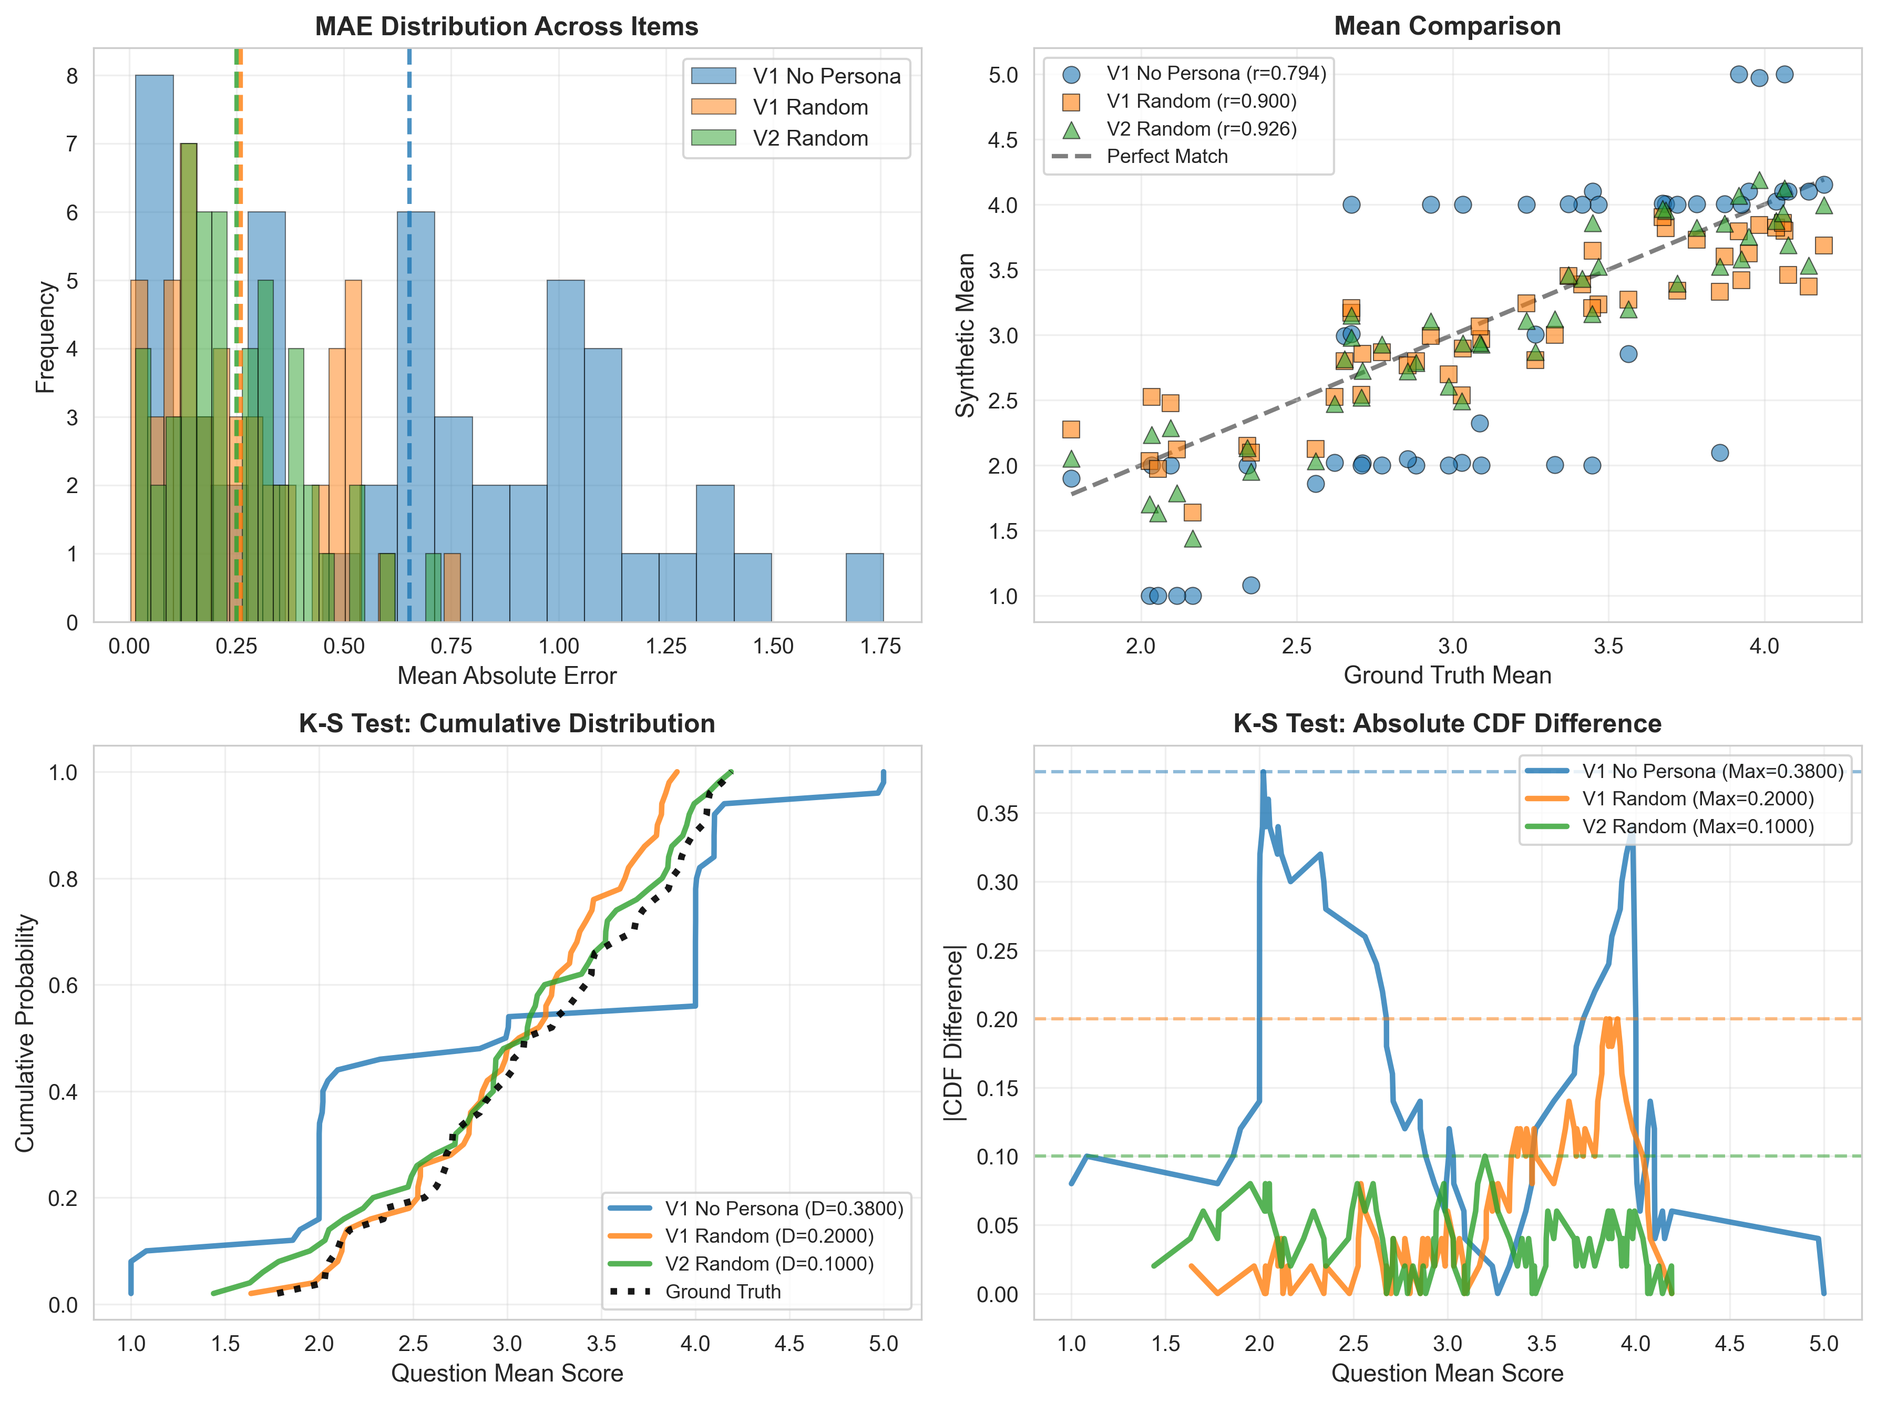
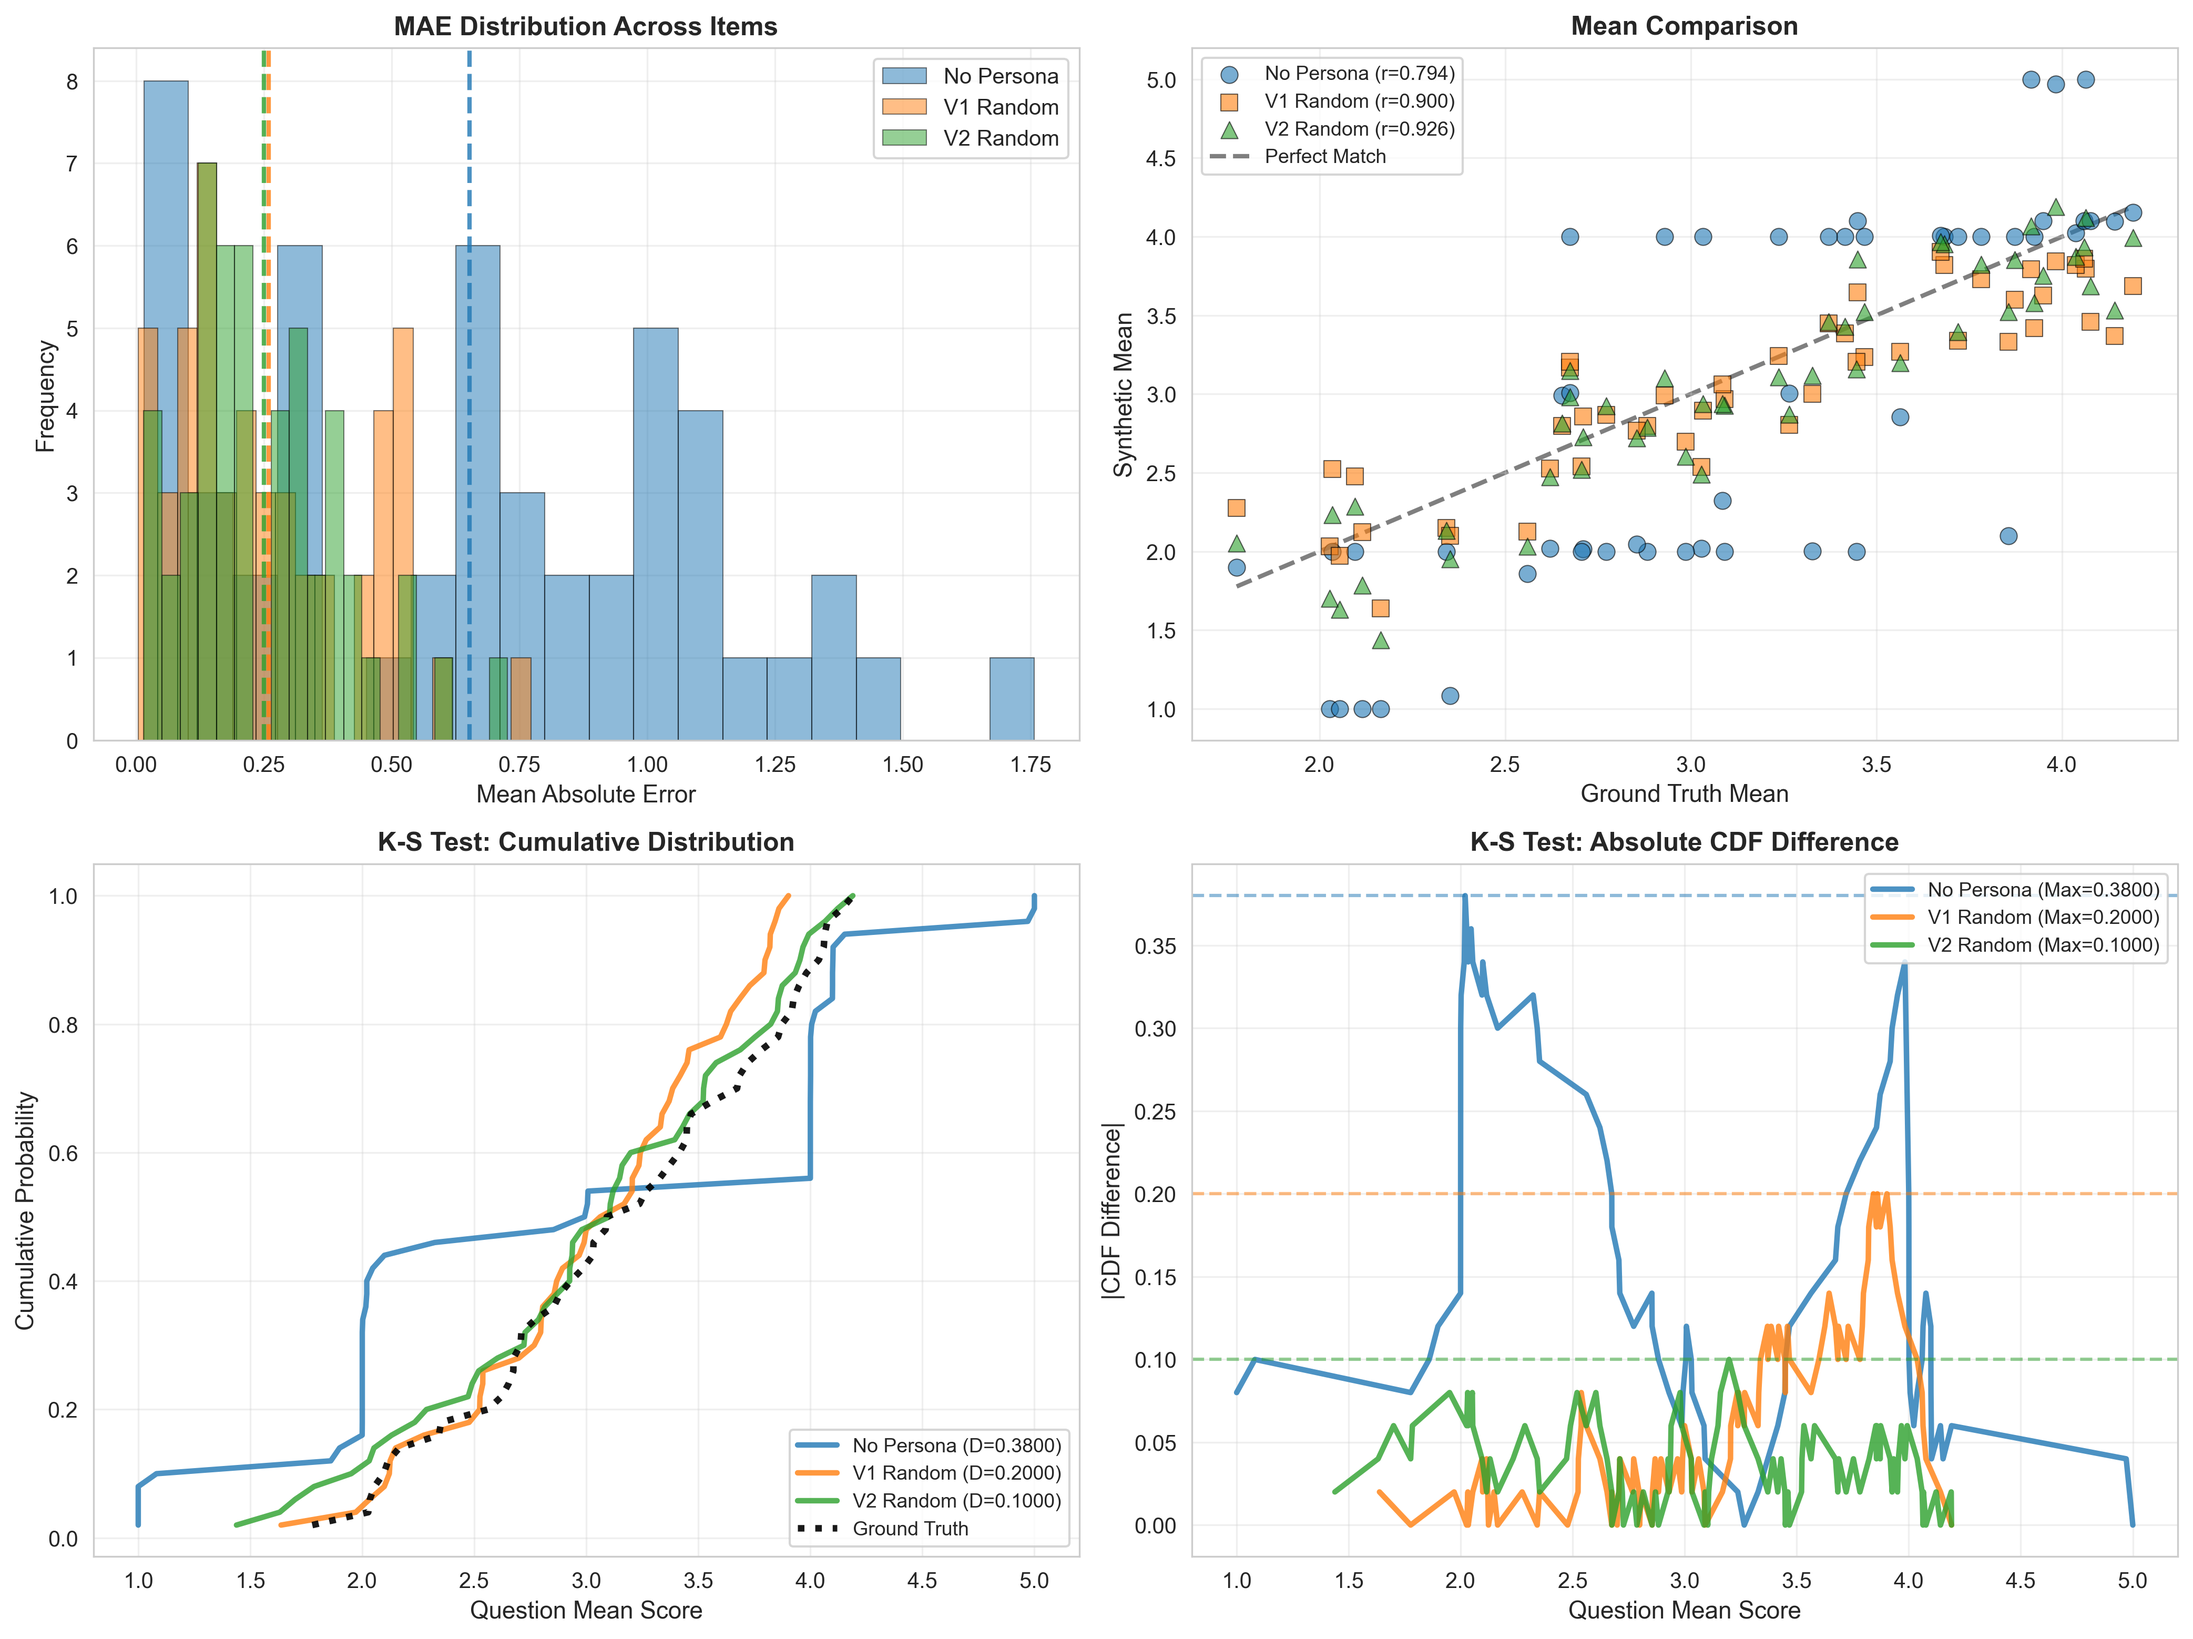
update platform prompt for better differentiation across different platform

diff --git a/SiliconSampling/personas/test_prompt.py b/SiliconSampling/personas/test_prompt.py
@@ -1,0 +1,109 @@
+"""
+Test Prompt Generation
+
+This script outputs the actual prompt that will be sent to the LLM for persona generation.
+Useful for debugging and understanding what the model sees.
+
+Usage:
+    python test_prompt.py --strategy random
+    python test_prompt.py --strategy ipip --row-index 5
+    python test_prompt.py --strategy wpp --output prompt.txt
+"""
+
+import argparse
+from pathlib import Path
+
+from utils import (
+    load_prompt_template,
+    load_ocean_data,
+    format_demographics,
+    format_ocean_scores,
+    create_persona_prompt
+)
+
+
+def main(strategy='random', row_index=0, output_file=None):
+    """
+    Generate and display/save the prompt for a sample persona
+    
+    Args:
+        strategy: Which OCEAN assignment strategy (random/ipip/wpp)
+        row_index: Which row from the data to use (default: 0)
+        output_file: If provided, save to this file instead of printing
+    """
+    
+    print("\n" + "="*80)
+    print("PROMPT GENERATION TEST")
+    print("="*80)
+    print(f"Strategy: {strategy}")
+    print(f"Row index: {row_index}")
+    print("="*80 + "\n")
+    
+    # Load prompt template
+    print("Loading prompt template...")
+    template = load_prompt_template(strategy)
+    print(f"✓ Template loaded ({len(template)} characters)\n")
+    
+    # Load sample data (just 10 rows for efficiency)
+    print("Loading sample OCEAN data...")
+    df = load_ocean_data(strategy, sample_size=10)
+    
+    if row_index >= len(df):
+        print(f"⚠  Warning: Row index {row_index} out of range (max: {len(df)-1}), using row 0")
+        row_index = 0
+    
+    row = df.iloc[row_index]
+    print(f"✓ Using row {row_index}\n")
+    
+    # Format demographics
+    demographics = format_demographics(row)
+    print("Demographics:")
+    print(f"  {demographics}\n")
+    
+    # Format OCEAN scores
+    ocean_scores = format_ocean_scores(row, strategy)
+    print("OCEAN Scores:")
+    for trait, score in ocean_scores.items():
+        if strategy == 'wpp':
+            print(f"  {trait}: {score}")
+        else:
+            print(f"  {trait}: {score}/10")
+    print()
+    
+    # Create full prompt
+    full_prompt = create_persona_prompt(template, demographics, ocean_scores, strategy)
+    
+    print("="*80)
+    print("FULL PROMPT")
+    print("="*80)
+    
+    # Output to file or console
+    if output_file:
+        output_path = Path(output_file)
+        with open(output_path, 'w', encoding='utf-8') as f:
+            f.write(full_prompt)
+        print(f"\n✓ Prompt saved to: {output_path}")
+        print(f"  Length: {len(full_prompt)} characters")
+        print(f"  Lines: {full_prompt.count(chr(10)) + 1}")
+    else:
+        print(full_prompt)
+        print("\n" + "="*80)
+        print(f"Prompt length: {len(full_prompt)} characters")
+        print(f"Prompt lines: {full_prompt.count(chr(10)) + 1}")
+    
+    print("="*80 + "\n")
+
+
+if __name__ == "__main__":
+    parser = argparse.ArgumentParser(description="Test and view the persona generation prompt")
+    parser.add_argument('--strategy', type=str, default='random',
+                       choices=['random', 'ipip', 'wpp'],
+                       help='OCEAN assignment strategy to use')
+    parser.add_argument('--row-index', type=int, default=0,
+                       help='Which row from the data to use (default: 0)')
+    parser.add_argument('--output', type=str, default=None,
+                       help='Save prompt to this file instead of printing to console')
+    
+    args = parser.parse_args()
+    
+    main(strategy=args.strategy, row_index=args.row_index, output_file=args.output)

diff --git a/CTRPrediction/utils.py b/CTRPrediction/utils.py
@@ -248,10 +248,10 @@ def create_image_ad_prompt(ad_platform: str) -> str:
         User prompt string for image ad evaluation
     """
     platform_contexts = {
-        "facebook": "This ad image appears in your Facebook news feed while you browse social content.",
+        "facebook": "This ad image appears in your Facebook news feed while you browse social content (news, recreational contents, or just random browsing).",
         "tiktok": "This ad image appears between TikTok videos as you scroll through short-form content.",
         "amazon": "This ad image appears on Amazon while you are shopping or browsing products.",
-        "instagram": "This ad image appears in your Instagram feed or stories.",
+        "instagram": "This ad image appears in your Instagram feed or stories while you browse recreational content or connect with friends.",
         "youtube": "This ad image appears before or during a YouTube video you're watching."
     }
     

diff --git a/SiliconSampling/create_comparison_figure.py b/SiliconSampling/create_comparison_figure.py
@@ -33,7 +33,7 @@ sns.set_style("whitegrid")
 # Define settings to compare
 SETTINGS = [
     {
-        'name': 'V1 No Persona',
+        'name': 'No Persona',
         'path': 'responses_v1/no_persona/deepseek/responses_v1_no_persona_deepseek-chat.jsonl',
         'color': '#1f77b4',  # Blue
         'marker': 'o'
@@ -70,7 +70,7 @@ def load_metrics_for_setting(response_file, ground_truth_df, test_cols):
 
 def create_comparison_figure(all_metrics, settings, output_path):
     """Create comparison figure with all settings overlaid"""
-    fig, axes = plt.subplots(2, 2, figsize=(12, 9))
+    fig, axes = plt.subplots(2, 2, figsize=(14, 10.5))
     
     # Plot 1: MAE Distribution (overlaid histograms/KDE)
     ax = axes[0, 0]
